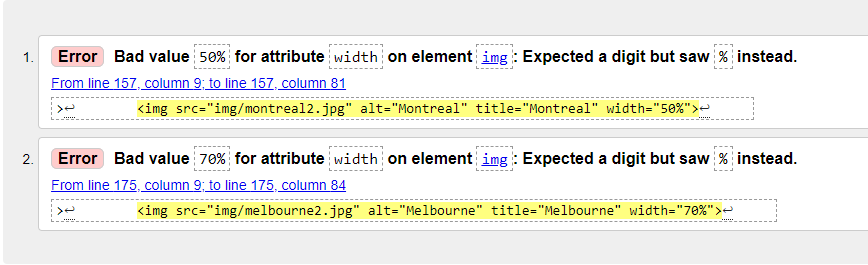
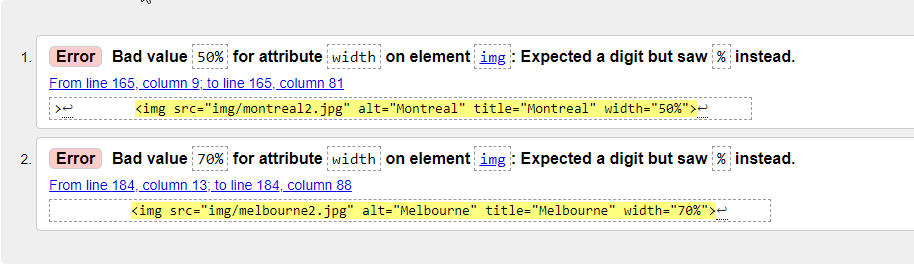
fixed last img dimensions

Changed region(s): [[0.0, 0.5132, 1.0, 0.8755], [0.0, 0.1509, 1.0, 0.483]]

diff --git a/LAB2-priprema/index.html b/LAB2-priprema/index.html
@@ -11,7 +11,7 @@
 
         <!-- malo css-a da ne bude dosadno -->
         <style>
-            html {
+            body {
                 font-family: 'Montserrat', sans-serif;
                 line-height: 1.4;
                 padding: 10px 30px 20px;
@@ -23,6 +23,10 @@
 
             p {
                 margin-right: 50%;
+            }
+
+            hr {
+                border: 1px solid #dadada;
             }
 
             .city-img {
@@ -48,6 +52,7 @@
         <hr>
         <h2>0036519571</h2>
         <br><br>
+
         <h3>Navigation</h3>
         <a href="#montevideo"><img src="img/montevideo.jpg" alt="Montevideo" title="Montevideo" width="200"
                 class="city-img"></a>&nbsp;
@@ -61,7 +66,9 @@
                 class="city-img"></a>
 
         <br><br>
-        <hr><br><br>
+        <hr>
+        <br>
+
         <h2 id="montevideo">Montevideo</h2>
         <a href="#montevideo"><img src="img/montevideo.jpg" alt="Montevideo" title="Montevideo" width="200"></a>
         <p>
@@ -172,11 +179,13 @@
         <iframe src="https://www.australia.com/en/places/melbourne-and-surrounds/guide-to-melbourne.html" width="600"
             height="400"></iframe>
         <br><br>
-        <!--TODO slika treba bit 70% od originalne dimenzije slike, a ne sirine stranice-->
-        <img src="img/melbourne2.jpg" alt="Melbourne" title="Melbourne" width="70%">
+        <!-- slika treba bit 70% od originalne dimenzije slike, a ne sirine stranice-->
+        <div style="width: 1000px;background-color:#dadada;">
+            <img src="img/melbourne2.jpg" alt="Melbourne" title="Melbourne" width="70%">
+        </div>
         <br><br><br>
 
-        <a href="#vrh" style="font-size: x-large;"><mark>Vrati me na vrh</mark></a>
+        <a href="#vrh" style="font-size: x-large;" id="to-top"><mark>Vrati me na vrh</mark></a>
         <br><br><br>
 
     </body>
